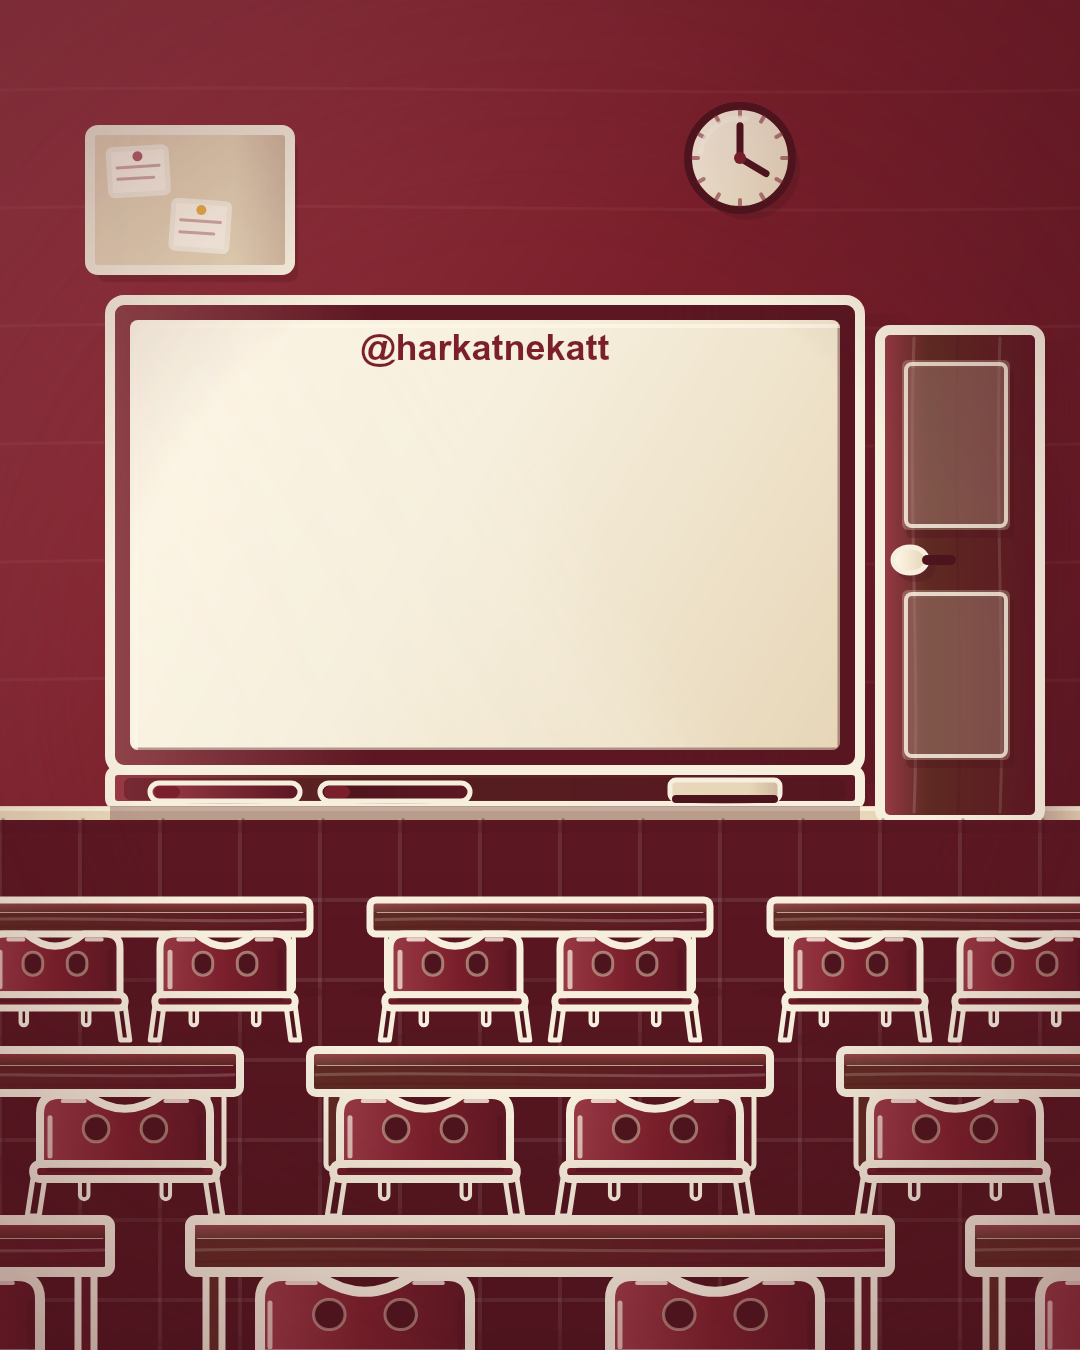
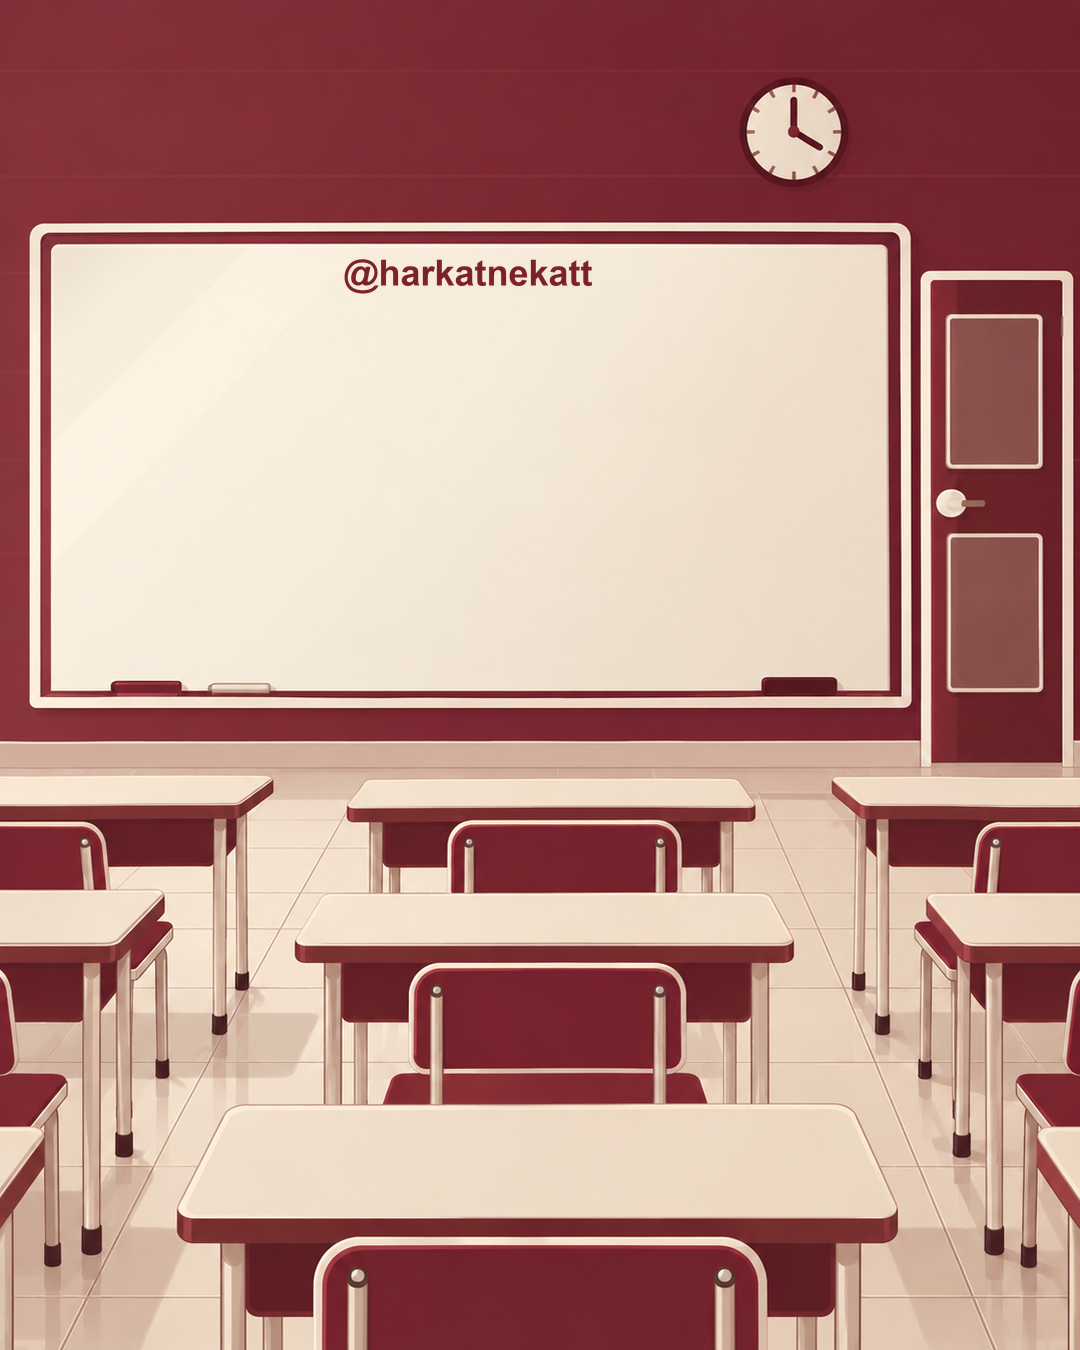
feat: refresh Tuyul/Kelas templates and text bounds

diff --git a/frontend/src/config/templates.js b/frontend/src/config/templates.js
@@ -68,21 +68,21 @@ export const TEMPLATES = [
     textColor: '#7a1f2b',
     fontFamily: "'DM Sans', sans-serif",
     fontWeight: '600',
-    // Zona 770..987px (217px): 5 baris x 42px = 210px masih muat.
+    // Zona 743..954px (211px): 5 baris x 42px = 210px masih muat.
     defaultFontSize: 28,
     lineHeightMultiplier: 1.5,
     maxLines: 5,
     bounds: {
-      // textWindow(BUS) di drawTuyul.js: x 410..908.15, y 713.3..1001
-      // (BUS {x:40,y:640,w:1000,h:560}). Handle baked (bold 26px, baseline
-      // y=753.7) berakhir ~y=759, jadi zona mulai y=770.
-      '4:5': { x: 0.394, y: 0.57, w: 0.432, h: 0.161, padX: 0.04, padY: 0.04 },
+      // Panel krem screenshot baru: x 413..911, y 685..970. Handle baked
+      // (bold 26px, bbox y 707..738) berakhir ~y=738, jadi zona mulai y=743.
+      '4:5': { x: 0.382, y: 0.55, w: 0.462, h: 0.156, padX: 0.04, padY: 0.04 },
       // 1:1: crop aspect-fill (sy=135px), y dikurangi 135 lalu / 1080.
-      '1:1': { x: 0.394, y: 0.588, w: 0.432, h: 0.201, padX: 0.04, padY: 0.04 },
+      '1:1': { x: 0.382, y: 0.563, w: 0.462, h: 0.194, padX: 0.04, padY: 0.04 },
     },
     defaultMessage: {
-      posX: 61, // pusat zona x 426..892
-      posY: 65.1, // pusat zona y 770..987
+      posX: 61.3, // pusat panel x=662 (sama dengan handle baked)
+      posY: 62.8, // pusat zona y 743..954
+      '1:1': { posY: 66.0 }, // crop sy=135: pusat zona y 608..819
       rotate: 0,
     },
   },
@@ -101,26 +101,32 @@ export const TEMPLATES = [
     textColor: '#7a1f2b',
     fontFamily: "'DM Sans', sans-serif",
     fontWeight: '600',
-    // Zona 385..730px (345px): 6 baris x 54px = 324px masih muat.
+    // Zona 308..632px (324px): 6 baris x 54px = 324px pas muat.
     defaultFontSize: 36,
     lineHeightMultiplier: 1.5,
     maxLines: 6,
     bounds: {
-      // Permukaan papan (BOARD {x:110,y:300,w:750,h:470, frame:20} di
-      // kelas.js): x 130..840, y 320..750. Handle baked (bold 36px,
-      // baseline y=360) berakhir ~y=368, jadi zona mulai y=385.
-      // Papan gak center di x=50% (110..860) -> posX ikut 44.9%.
-      '4:5': { x: 0.143, y: 0.285, w: 0.613, h: 0.256, padX: 0.04, padY: 0.04 },
+      // Papan krem screenshot baru: x 51..884, y 244..689. Handle baked
+      // (bold 36px, bbox y 257..296) berakhir ~y=296, jadi zona mulai y=308.
+      // Papan gak center di x=50% (51..884) -> posX ikut 43.3%.
+      '4:5': { x: 0.047, y: 0.228, w: 0.772, h: 0.24, padX: 0.04, padY: 0.04 },
       // 1:1: crop aspect-fill (sy=135px), y dikurangi 135 lalu / 1080.
-      '1:1': { x: 0.143, y: 0.231, w: 0.613, h: 0.319, padX: 0.04, padY: 0.04 },
+      '1:1': { x: 0.047, y: 0.16, w: 0.772, h: 0.3, padX: 0.04, padY: 0.04 },
     },
     defaultMessage: {
-      posX: 44.9, // pusat zona x 154..816
-      posY: 41.3, // pusat zona y 385..730
+      posX: 43.3, // pusat panel x=467.5 (sama dengan handle baked)
+      posY: 34.8, // pusat zona y 308..632
+      '1:1': { posY: 31.0 }, // crop sy=135: pusat zona y 173..497
       rotate: 0,
     },
   },
 ];
+
+export function getDefaultMessage(template, ratio) {
+  const base = template.defaultMessage;
+  const override = base[ratio || template.defaultRatio];
+  return override ? { ...base, ...override } : base;
+}
 
 export function getTemplateById(id) {
   return TEMPLATES.find((t) => t.id === id) || TEMPLATES[0];

diff --git a/frontend/src/components/ExportModal.jsx b/frontend/src/components/ExportModal.jsx
@@ -1,6 +1,6 @@
 import { useRef, useEffect, useState } from 'react';
 import toast from 'react-hot-toast';
-import { TEMPLATES, getTemplateById, parseTemplateFromMenfes } from '../config/templates';
+import { TEMPLATES, getTemplateById, getDefaultMessage, parseTemplateFromMenfes } from '../config/templates';
 import { renderMenfessToCanvas, CANVAS_SIZE, hitungKartu } from '../utils/drawMenfessCanvas';
 import { adminAPI, urlAset } from '../api';
 import usePreviewLagu from '../hooks/usePreviewLagu';
@@ -61,9 +61,10 @@ export default function ExportModal({ menfes, onClose, onPosted }) {
 
   // Posisi teks menfes — dipatok ke titik tengah blok, bukan kiri-atas,
   // supaya blok multi-baris tetap stabil dan rotasi berputar di sekitar pusat.
-  const [msgX, setMsgX] = useState(currentTemplate.defaultMessage.posX);
-  const [msgY, setMsgY] = useState(currentTemplate.defaultMessage.posY);
-  const [msgRotate, setMsgRotate] = useState(currentTemplate.defaultMessage.rotate);
+  const defaultMsg = getDefaultMessage(currentTemplate, ratio);
+  const [msgX, setMsgX] = useState(defaultMsg.posX);
+  const [msgY, setMsgY] = useState(defaultMsg.posY);
+  const [msgRotate, setMsgRotate] = useState(defaultMsg.rotate);
 
   // Navigasi multicard di preview live: kartu aktif + baris per kartu.
   // Chunk dihitung sendiri di efek preview (bukan dipinjam dari handlePost)
@@ -111,16 +112,17 @@ export default function ExportModal({ menfes, onClose, onPosted }) {
   function handleSelectTemplate(tmplId) {
     const tmpl = getTemplateById(tmplId);
     setSelectedTemplateId(tmplId);
-    setMsgX(tmpl.defaultMessage.posX);
-    setMsgY(tmpl.defaultMessage.posY);
-    setMsgRotate(tmpl.defaultMessage.rotate);
+    const tmplMsg = getDefaultMessage(tmpl, tmpl.defaultRatio);
+    setMsgX(tmplMsg.posX);
+    setMsgY(tmplMsg.posY);
+    setMsgRotate(tmplMsg.rotate);
   }
 
   // Reset slider ke default template saat ini
   function handleResetPositions() {
-    setMsgX(currentTemplate.defaultMessage.posX);
-    setMsgY(currentTemplate.defaultMessage.posY);
-    setMsgRotate(currentTemplate.defaultMessage.rotate);
+    setMsgX(defaultMsg.posX);
+    setMsgY(defaultMsg.posY);
+    setMsgRotate(defaultMsg.rotate);
     toast.success('Posisi direset ke default template.');
   }
 

diff --git a/frontend/src/utils/drawMenfessCanvas.js b/frontend/src/utils/drawMenfessCanvas.js
@@ -1,4 +1,5 @@
 import { chunkLines } from './splitLines.js';
+import { getDefaultMessage } from '../config/templates.js';
 
 export const CANVAS_SIZE = {
   '1:1': { w: 1080, h: 1080 },
@@ -167,9 +168,10 @@ export function renderMenfessToCanvas(canvas, {
 
   const ctx = canvas.getContext('2d');
   const actualFontSize = fontSize || template.defaultFontSize || 36;
-  const actualMsgX = msgX !== null && msgX !== undefined ? msgX : template.defaultMessage.posX;
-  const actualMsgY = msgY !== null && msgY !== undefined ? msgY : template.defaultMessage.posY;
-  const actualMsgRotate = msgRotate !== null && msgRotate !== undefined ? msgRotate : template.defaultMessage.rotate;
+  const defaultMsg = getDefaultMessage(template, actualRatio);
+  const actualMsgX = msgX !== null && msgX !== undefined ? msgX : defaultMsg.posX;
+  const actualMsgY = msgY !== null && msgY !== undefined ? msgY : defaultMsg.posY;
+  const actualMsgRotate = msgRotate !== null && msgRotate !== undefined ? msgRotate : defaultMsg.rotate;
 
   // Render async: caller harus menunggu promise ini sebelum mengunci canvas
   // jadi blob. Kalau tidak, canvas masih transparan dan JPEG keluar hitam.
